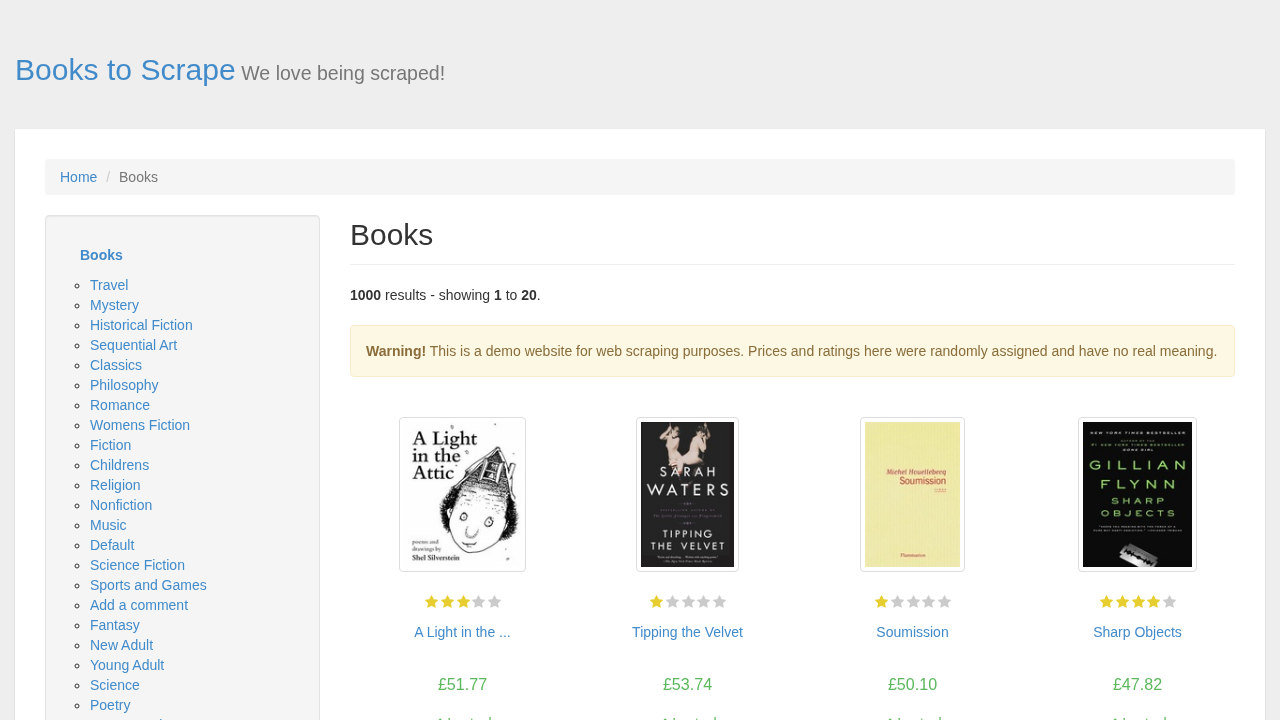
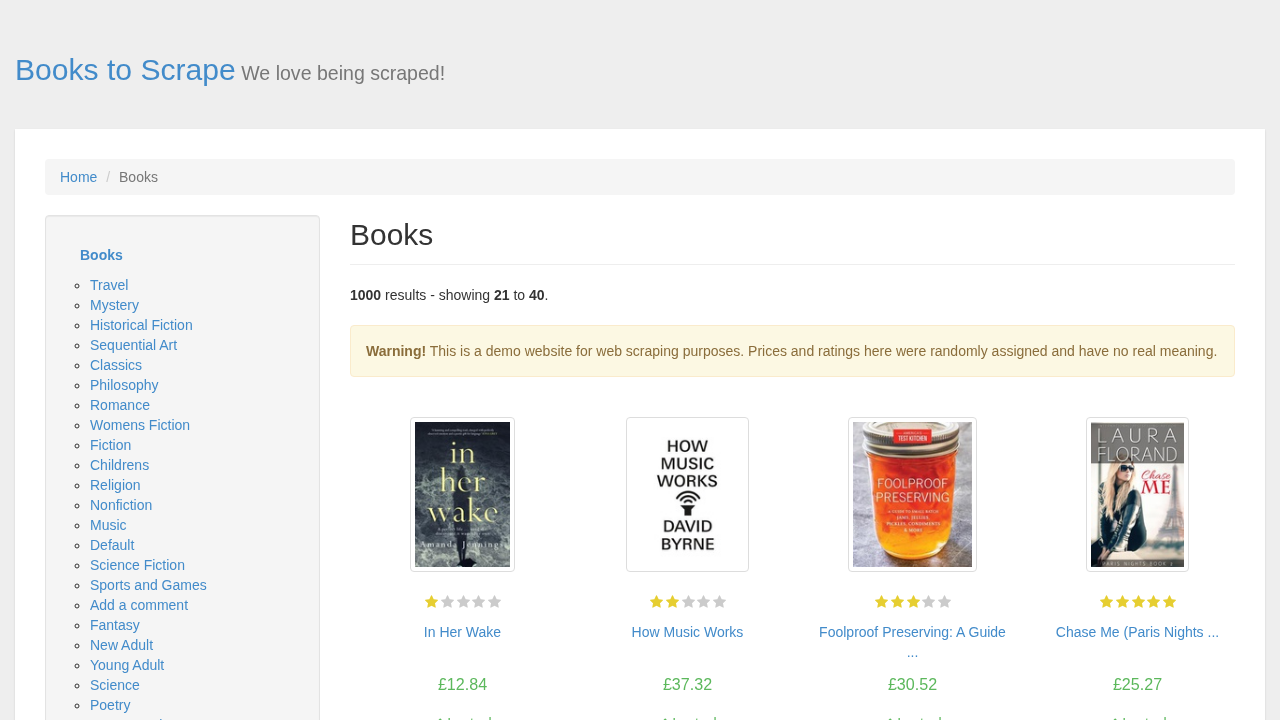
Work get url in array. Only get data. And program element complete.(if don't say about sql and async, sync)

diff --git a/main.py b/main.py
@@ -17,23 +17,54 @@ from playwright.sync_api import sync_playwright
 
 # main Process
 class PlayWrightManager:
-    def __init__(self):
+    def __init__(self,url):
+        self.url = url
+        self.base_url = [] # save all url, what don't work on it
         print("Start project")
+        self.i = 0
 
-    def main_directory(self):
+    def main(self):
         pd = sync_playwright().start()
 
         website = pd.chromium.launch(headless=True)
         page = website.new_page()
-        url = "https://books.toscrape.com/catalogue/category/books_1/index.html"
-        page.goto(url)
-        page.screenshot(path = "example.png")
+        page.goto(self.url)
+        self.get_url_page(page)
+        print(self.base_url)
+        print(len(self.base_url))
         website.close()
 
+    def get_url_page(self,page):
+
+        still_work = True
+        while (still_work):
+            for page_text in page.query_selector_all("h3 a"):
+                self.base_url.append("".join(["https://books.toscrape.com/catalogue/",page_text.get_attribute("href").replace("../../","")]))
+
+            still_work = self.next_page(page)
+            # print(still_work)
+
+    def next_page(self,page):
+        # try click on new page
+        try:
+            for button_next_page in page.query_selector_all("section div div ul li a[href]"):
+                # print(button_next_page.text_content())
+                if button_next_page.text_content() == "next":
+                    self.i = self.i + 1
+                    print(self.i)
+                    button_next_page.click()
+                    page.wait_for_timeout(10) # don't need view png in the site/ for png 1000 need
+                    return True
+            return False
+        except:
+            return False
 
 if __name__ == "__main__":
-    init_class = PlayWrightManager()
-    init_class.main_directory()
+    url = "https://books.toscrape.com/catalogue/category/books_1/index.html"
+    init_class = PlayWrightManager(url)
+    init_class.main()
+
+    print("End class")
 
 
 #     page_get_url = browser.new_page()
@@ -48,12 +79,6 @@ if __name__ == "__main__":
 #     page_get_url = browser.new_page()
 #     # element wait url
 #     if array_url == None:
-#
-#
-#
-#
-#     browser.close()
-#
 # if __name__ == "__main__":
 #     manager = PlaywrightManager()
 #     manager.navigate_to('https://example.com')
